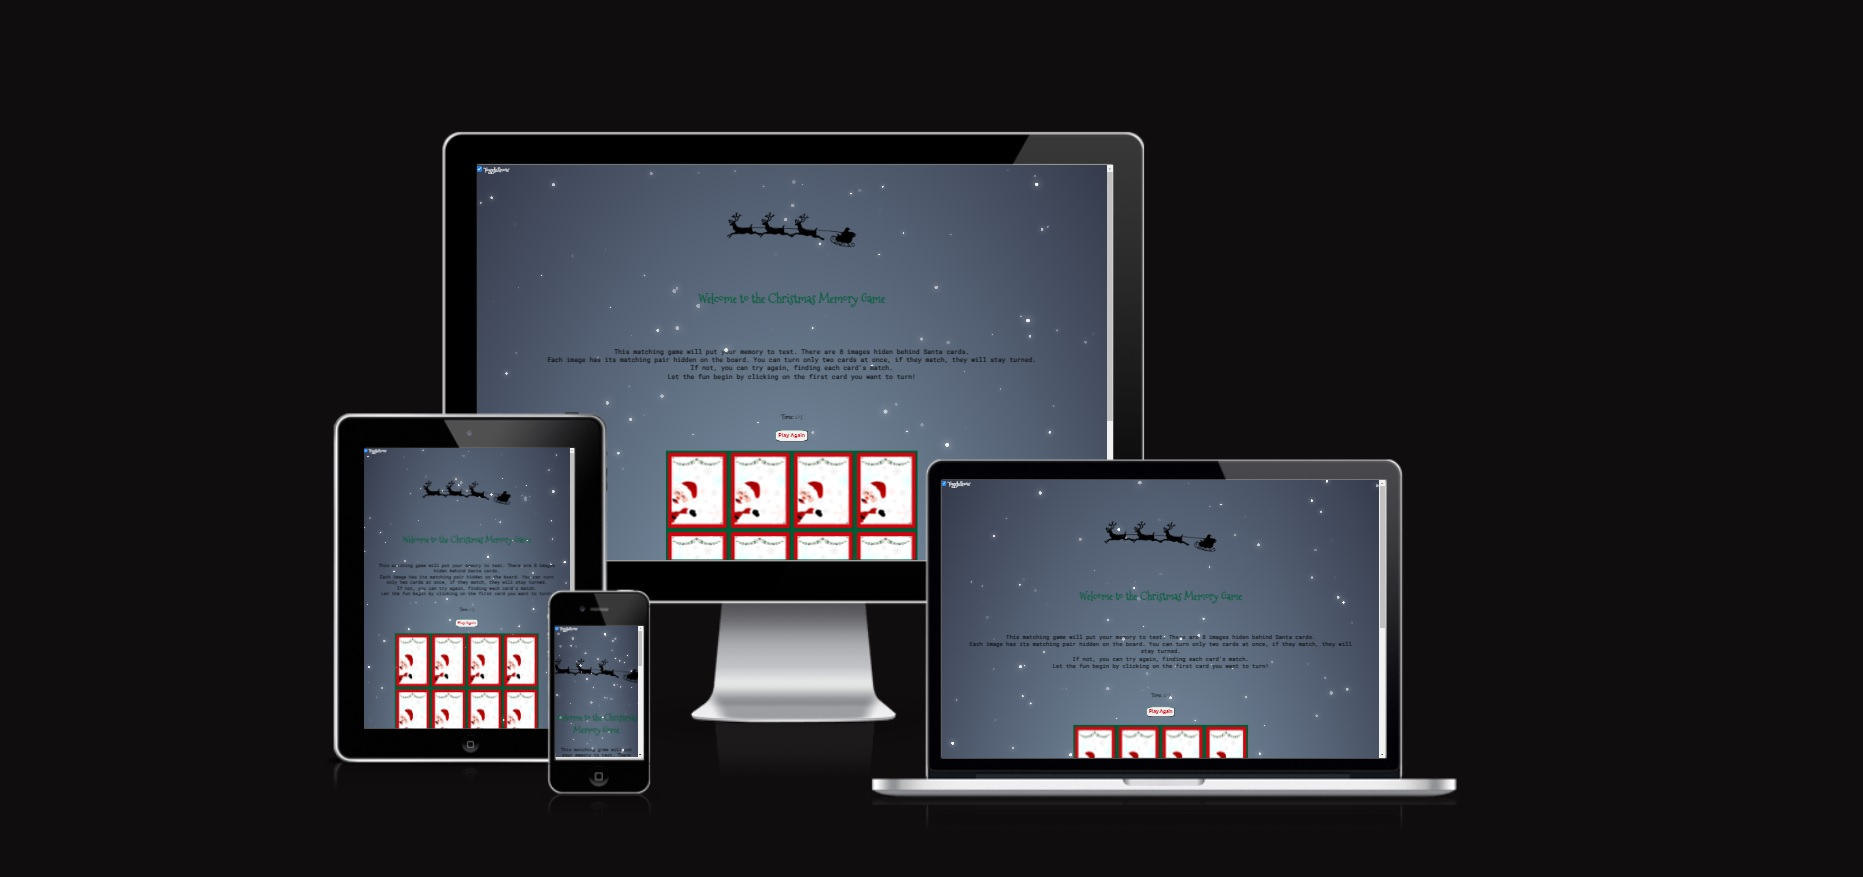
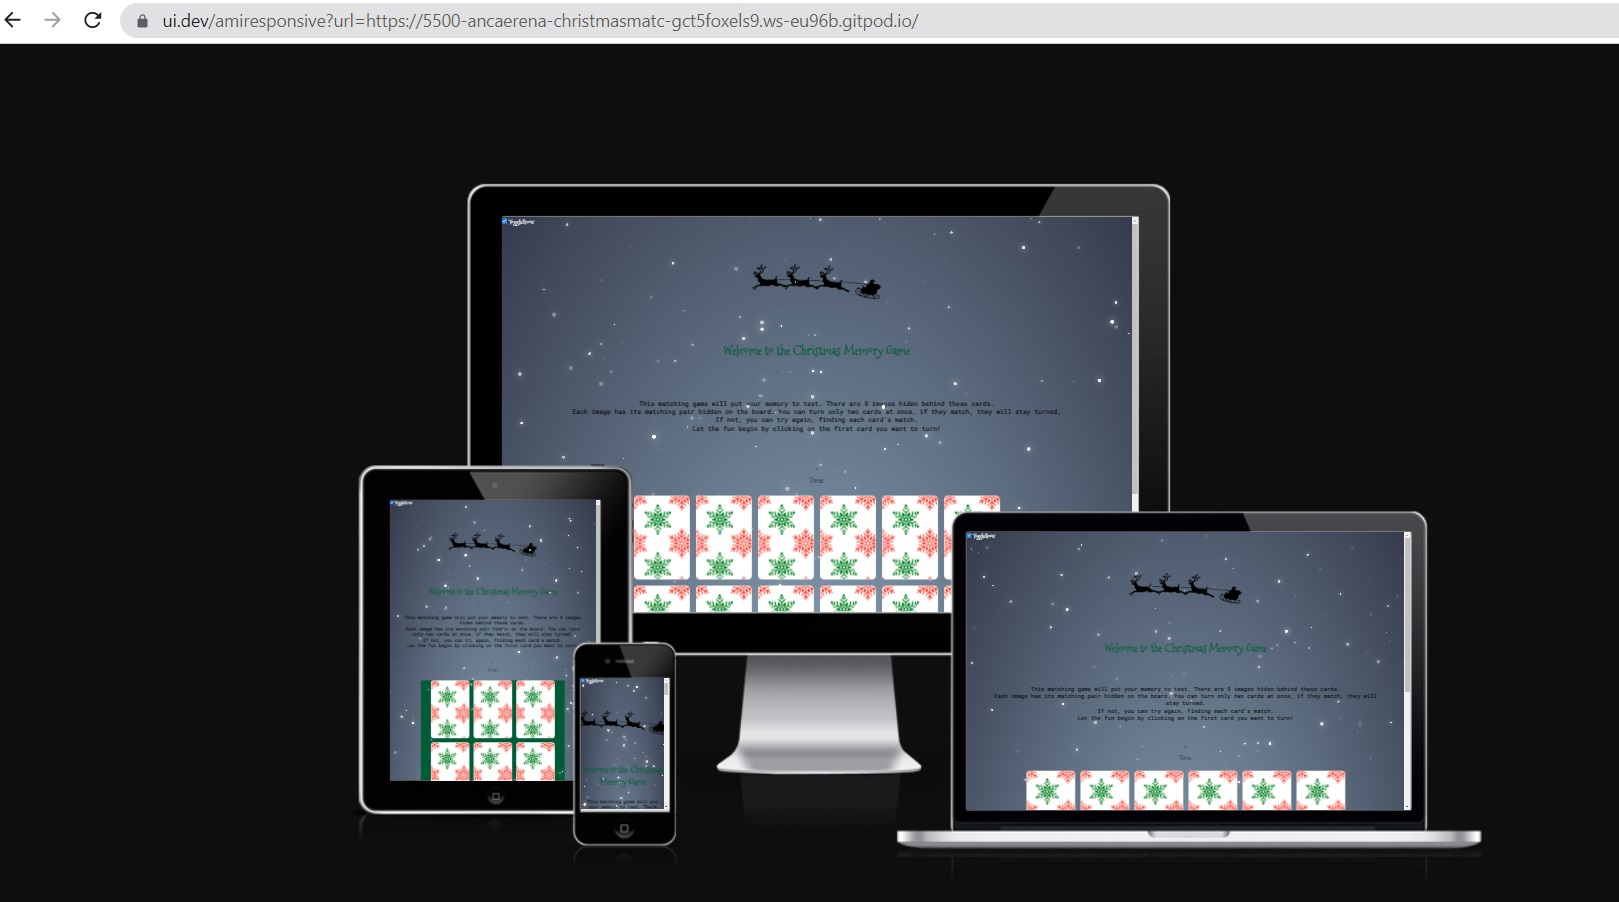
Add readme content and images

diff --git a/index.html b/index.html
@@ -30,18 +30,20 @@
       <section>
          <!--Instructions on how to play the game-->
          <div>
-            <p> <strong>This matching game will put your memory to test. There are 8 images hiden behind Santa cards. <br> Each image has its matching pair hidden on the board. You can turn only two cards at once, if they match, they will stay turned. <br> If not, you can try again, finding each card's match. <br> Let the fun begin by clicking on the first card you want to turn! </strong></p>
+            <p> <strong>This matching game will put your memory to test. There are 9 images hiden behind these cards. <br> Each image has its matching pair hidden on the board. You can turn only two cards at once, if they match, they will stay turned. <br> If not, you can try again, finding each card's match. <br> Let the fun begin by clicking on the first card you want to turn! </strong></p>
          </div>
       </section>
       <div id="stats">
-         <div class="score"> <h3>Moves: </h3></div>
+         <div class="score"> <h3> Moves: </h3></div>
          <div id="timer"> Time: </div>
       </div>
+      <div class="game">
+         <button onclick="restart()">Restart</button>
+     </div>
+     <br>
       <div class="grid-container">
       </div>
-      <div class="game">
-          <button onclick="restart()">Restart</button>
-      </div>
+      <br>
       <!--Linking JavaScript to html file-->
       <script src="assets/js/script.js"></script>
       <script src="assets/js/pureSnow.js"></script>

diff --git a/assets/css/style.css b/assets/css/style.css
@@ -97,6 +97,7 @@ p {
 .front-image {
 	width: 120px;
 	height: 160px;
+	border-radius: 10px;
   }
  
 /* fliping the cards */
@@ -151,8 +152,16 @@ p {
 		margin: 0 auto;
 		display: flex;
 		flex-wrap: wrap;
-		background: #165B33;
 	}
+	.card {
+		width: 80px;
+		height: calc(80px / 2 * 3);
+		display: flex;
+	}
+	.front-image {
+		width: 60px;
+		height: 80px;
+	  }
 }
 
 @media screen and (max-width: 400px) {
@@ -162,6 +171,15 @@ p {
 		margin: 0 auto;
 		display: flex;
 		flex-wrap: wrap;
-		background: #165B33;
 	}
+	.card {
+		width: 60px;
+		height: calc(60px / 2 * 3);
+		display: flex;
+	}
+	.front-image {
+		width: 40px;
+		height: 60px;
+	  }
+	
 }

diff --git a/assets/js/script.js b/assets/js/script.js
@@ -100,7 +100,7 @@ function checkForMatch() {
       let isMatch = firstCard.dataset.name === secondCard.dataset.name;
     
       isMatch ? disableCards() : unflipCards();
-    }
+}
     
 function disableCards() {
       firstCard.removeEventListener("click", flipCard);

diff --git a/README.md b/README.md
@@ -30,40 +30,57 @@ It also states  the name of the game, in a font part of the Christmas theme.
 <h4><strong>Statistics controls</strong></h4>
 - A div that helps the user keep track of his score and time spend on the game. It registers the number of moves the user has and also the seconds he spent playing. A great way to compare between highscores with the same user or with different users if played with your family.
 <br>
-- The moves show up after the first 2 cards are turned, but the timer starts the moment you open the page.
+- The moves show up after the first 2 cards are turned, and the timer starts then as well.
 <br>
-- There's also a button to invite users to play the game again. The button will reset the timer and reload the page, with a brand new board. Cards are suffled each time the Play Again button is pressed.
+- There's also a button to invite users to play the game again. The button will reset the timer and reload the page, with a brand new board. Cards are suffled each time the Restart button is pressed.
 <br>
-<img src="assets/images/moves-timer-playagain.jpg" alt="area for scores, number of moves, a timer and a play again button for the game">
+<img src="assets/images/moves-timer-restart.jpg" alt="area for scores, number of moves, a timer and a play again button for the game">
 <br>
-<h4><strong>Second section</strong></h4>
-- Using Christmas color theme, this section contains the game itself. A board with 16 cards, 8 images that repeat themselves. Only two images can be turned at the same time. If they match, they will stay turned and the user can move on in finding the other pairs until the full board of cards is turned. 
+<h4><strong>Game section</strong></h4>
+- Using Christmas color theme, this section contains the game itself. A board with 18 cards, 9 images that repeat themselves. Only two images can be turned at the same time. If they match, they will stay turned and the user can move on in finding the other pairs until the full board of cards is turned. 
 <br>
-- The front of the cards are showing a funny Santa Claus, peeping out, like playing hide and seek, which complements the idea of the game, encouraging the user to see what hides behind that card.
+- The front of the cards are showing snowflakes, in Christmas colours.
 <br>
 - The images on the other side of the cards are fun winter themed, with snow, snowman, Christmas Tree and Christmas presents, with kids, couples and families, making everything attractive and fun to play and discover.
 <br>
-<img src="assets/images/boardGame.jpg" alt="a board of 16 cards">
+<img src="assets/images/board.jpg" alt="a board of 16 cards">
 <br>
-<h4>The Message Alert</h4>
-- Once the last card on the board is turned, a message will pop up, congratulating the user for wining the game. The user can then check how many moves they needed to finish the game and can work towards better scores by pressing the Play Again button.
+- The board is created as a holder in HTML, images are stored in json files and fetched into JavaScrip, using the Fetch API method, which works good when having a local json file. 
 <br>
-<img src="assets/images/alertMessage.jpg" alt="alert message when winning the game">
-<img src="assets/images/winning.jpg" alt="board with finished game">
+- Other option for the json file to load is from a server, or to use import method. In this case, the Fetch API method worked well.
 <br>
+<br>
+<h4>Java Script Functions</h4>
+<br>
+- The query selector was used to referance the html grid-container class
+<br>
+- The json file was fetched into the JavaScript using Fetch API method, returning a to convert into json file with res.json().<br>The data was then added to the "card" array.
+<br>
+- The shuffle the cards data helps to randomize the cards display, using the math method.
+<br>
+- The generate the cards function uses a for loop to iterate through the cards. The innerHTML property is used to display the back and the front of the cards.
+<br>
+- The flip function checks the status of lockBoard variable and flipes the cards to display their front face. <br>Each flip adds to the moves score, incrementing it and displaying it at the top of the page.
+<br>
+- The check for a match function uses an if statement to see if the name of the image match, if they do, the disableCards() <br>is called to allow for the cards to stay unflipped, if they don't, the unflipCards() is called.
+<br>
+- The resetBoard resets the board after each matching atempt, and restartGame function helps to restart the game, <br> shuffling the cards again for a new set, brining the score and the timer back to 0.
 <br>
 <h3>Features left to implement</h3>
 <br>
-<h4>Result message</h4>
+<h4>Result message</h4><br>
 - A result message with the number of moves and the time spend to finish the game. Time to be displayed in minutes and seconds.
 <br>
 <h3>Fixed bugs</h3>
 - Json file was not working in jaVascript. I moved the file into a public folder and change the source path for it to work.
 <br>
-- 
+- Screen responsivness was not working. It was the wrong name of the class in CSS for media query. 
+<br>
+- Cards unmatched to turn back on before the next click on the next card. This was fixed with setTimeout() function.
 <br>
 <h3>Bugs to be fixed</h3>
-- Cards unmatched to turn back on before the next click on the next card.
+- Time to stop when all cards are flipped and game is won.
+<br>
 <br>
 <h3>Testing</h3>
 <br>
@@ -71,33 +88,40 @@ It also states  the name of the game, in a font part of the Christmas theme.
 <br>
 - I've tested and the website works in different devices, being responsive to them: mobile devices, tablets and 8 inch screens
 <br>
+<img src="assets/images/responsive1.jpg" alt="responsiveness of webpage to different screen sizes">
+<img src="assets/images/responsive2.jpg" alt="responsiveness of webpage to different screen sizes">
+<img src="assets/images/responsiveipad.jpg" alt="responsiveness of webpage to different screen sizes">
+<br>
 - I confirm that the instructions are legible and easy to follow and the game is accesible to all ages, from 3 years old to over 100 years old, all would benefit from playing this game and improving their memory.
 All images have text description.
 <br>
 <img src="assets/images/lighthouseStats.jpg" alt="stats from Developer Tools regarding page performance">
+<br>
 <h3>Validator testing</h3>
 <br>
 <h4>HTML</h4>
 <br>
--No errors were returned when passing through the official W3C validator
+-No errors were returned when passing through the official W3C validator, except the Toggle error, which can be ignored
 <br>
-<h4>CSS<h4>
+<h4>CSS</h4>
 <br>
 -No errors were found when passing through the official (Jigsaw) validator
 <br>
-<h4>JavaScript<h4>
+<br>
+<h4>JavaScript</h4>
 <br>
 -No errors were found when passing through the official JSHint JavaScript Validator
 <br>
 - It resulted the following metrics:
 <br>
-There are 15 functions in this file.
+There are 13 functions in this file.
 <br>
 Function with the largest signature take 1 arguments, while the median is 0.
 <br>
-Largest function has 10 statements in it, while the median is 2.
+Largest function has 12 statements in it, while the median is 3.
 <br>
 The most complex function has a cyclomatic complexity value of 4 while the median is 1.
+<br>
 <br>
 <h2>Deployment</h2>
 <br>
@@ -112,20 +136,25 @@ C. From the source section drop-down menu select Main as a branch and then save
 D. Once the main branch was selected, the page provided the link to the completed website
 <br>
 The live link can be found here: [Christmas Memory Game](https://github.com/ancaerena/christmas-match)
+<br>
+<br>
 <h2>Credits</h2>
 <br>
 - My mentor Jubril Akolade for giving me advice regarding font style, game instructions and JavaScript hints and help
 <br>
 -While working in JavaScript, a great help was Stack Overflow, for answering questions about the timer in the game.
 <br>
+- Useful webpages I've navigated for answers: dev.to , freecodecamp.org, aldohadinata.com , codingartistweb.com
+<br>
+<br>
 <h3>Content</h3>
 <br>
 - snow fall code source can be found here: [PureSnow](https://github.com/hyperstown/puresnowjs)
 <br>
-- JavaScript code for flipping cards can be found here: [Memory Game Repo](https://github.com/code-sketch/memory-game)
 <br>
 <h3>Media</h3>
 <br>
-- The header image and front cards image (with Santa Claus) were created in Canva by me
-- The back face of the cards were created in a mobile app called MomentsCam
+- The header image was created in Canva by me
+- The fliped face of the cards were created in a mobile app called MomentsCam
+- The unfliped face of the cards were sourced from pattern.monster webpage
 
